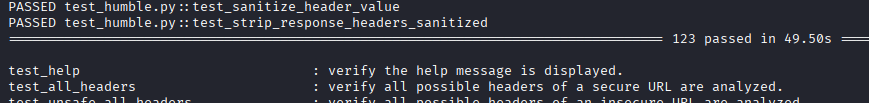
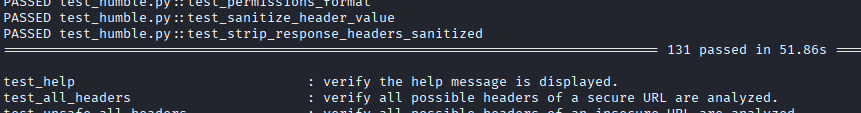
Feature: 4 new features. Check extended commit message.
.- Custom User-Agent through '-H' option
.- Analyze the final response of a file with redirects through '-if' option
.- '-if' options analyses the HAR entry of the URL given with '-u' option
.- Note added when the response contains a WAF or bot-challenge page

diff --git a/humble.py b/humble.py
@@ -76,7 +76,7 @@ Reference/Status/", "https://raw.githubusercontent.com/rfc-st/humble/master/\
 humble.py", "https://github.com/rfc-st/humble")
 DATE_FORMAT = "%Y/%m/%d - %H:%M:%S"
 current_time = datetime.now().astimezone().strftime(DATE_FORMAT)
-local_version = date.fromisoformat("2026-10-05")
+local_version = date.fromisoformat("2026-10-06")
 BANNER_VERSION = f"{URL_LIST[4]} | v.{local_version}"
 
 # Files, path resolution and system directories
@@ -105,6 +105,10 @@ HISTORY_FILE = Path(HUMBLE_FILES[0])
 
 # HTTP status codes, network analysis and timeouts
 CDN_HTTP_CODES = {*range(500, 512), *range(520, 528), 530}
+# https://developers.cloudflare.com/cloudflare-challenges/challenge-types/challenge-pages/detect-response/
+# https://docs.aws.amazon.com/waf/latest/developerguide/waf-captcha-and-challenge-actions.html
+# https://community.vercel.com/t/production-api-and-vercel-dev-blocked-by-x-vercel-mitigated-challenge-403-false-cors/41873
+CHALLENGE_HEADERS = {"cf-mitigated", "x-amzn-waf-action", "x-vercel-mitigated"}
 ERROR_CODES_CLIENT = {*range(400, 408), *range(409, 418), *range(421, 427),
                       428, 429, 431, 451}
 ERROR_CODES_MIXED = (400, 451, 500, 511, 599)
@@ -1750,8 +1754,8 @@ def print_basic_info(export_filename):
 def print_extended_info(reliable):
     """Print extended analysis details.
 
-    Request (`-H` option) and skipped (`-s` option) headers, proxy usage
-    (`-p` option) and specific HTTP 4xx errors.
+    Include the request and skipped headers, proxy usage, specific HTTP 4xx
+    errors and challenge pages of a WAF or bot protection.
     """
     if added_request_headers:
         print_request_headers(added_request_headers)
@@ -1761,6 +1765,8 @@ def print_extended_info(reliable):
         print_detail_l("[proxy_analysis_note]")
         print(f" {args.proxy}")
     print_extra_info(reliable)
+    if CHALLENGE_HEADERS & headers_l.keys():
+        print(get_detail("[analysis_challenge_note]", replace=True))
 
 
 def print_extra_info(reliable):
@@ -3299,6 +3305,7 @@ def initialize_pdf(pdf, ypos):
         ypos=ypos,
     )
 
+
 def generate_pdf(tmp_filename, content, ctx, *, export_all=False):
     """Generate the required file structure, including metadata.
 
@@ -4102,12 +4109,19 @@ def parse_har_file(file_path):
 def extract_har_content(har_data):
     """Extract response headers and status code from a HAR file.
 
+    The entry analyzed is the one requested with the `-u` option or, if none
+    matches, the first one.
+
     A HAR file may be valid JSON yet not follow the expected structure, so
     any unexpected type yields empty headers, reported by the caller via
     `[args_harlines]`.
     """
     try:
-        response = har_data["log"]["entries"][0]["response"]
+        entries = har_data["log"]["entries"]
+        response = next(
+            (entry for entry in entries if entry.get("request", {}).get(
+                "url", "").rstrip("/") == URL.rstrip("/")),
+            entries[0])["response"]
         status_code = int(response.get("status", 0))
         input_headers = {
             sanitize_header_value(header["name"].title()):
@@ -4153,14 +4167,19 @@ def analyze_input_file(input_file):
 
 
 def parse_input_file(input_headers, input_source, status_code):
-    """Parse the headers and values.
+    """Parse the headers and values of the last response in the file.
+
+    A file can hold several responses, one per redirect (e.g. curl with
+    `--location`); as in a live analysis, the last one is analyzed.
 
     Related to `-if` option.
     """
-    parts = input_source.readline().split()
+    content = input_source.read()
+    status_line, *lines = content[content.rfind("\nHTTP/") + 1:].split("\n")
+    parts = status_line.split()
     if len(parts) > 1 and parts[1].isdecimal():
         status_code = int(parts[1][:3])
-    for line in input_source:
+    for line in lines:
         if ":" in line:
             input_header, input_value = line.strip().split(":", 1)
             input_headers[sanitize_header_value(input_header.title())] = (
@@ -4381,6 +4400,8 @@ def parse_request_headers(request_headers):
         quoted = ", ".join(f'"{h}"' for h in malformed_headers)
         print(f"{get_detail('[e_custom_headers]', replace=True)}: {quoted}")
         sys.exit(1)
+    if args.user_agent and "user-agent" in map(str.lower, headers):
+        print_error_detail("[args_useragent_header]", clean_lines=True)
     return headers
 
 
@@ -4720,11 +4741,10 @@ if args.input_file is None:
     if args.proxy:
         process_proxy_url(args.proxy)
         proxy = {"http": args.proxy, "https": args.proxy}
-    custom_headers = REQ_HEADERS.copy()
+    custom_headers = REQ_HEADERS | {"User-Agent": ua_header}
     if args.request_header:
         added_request_headers = parse_request_headers(args.request_header)
         custom_headers.update(added_request_headers)
-    custom_headers["User-Agent"] = ua_header
     (headers, status_code, reliable, body, is_html, final_url,
      redirect_count) = (
         process_http_request(status_code, reliable, body, proxy,

diff --git a/tests/test_humble.py b/tests/test_humble.py
@@ -79,6 +79,8 @@ HUMBLE_TEST_FILES = {
     "GRADE_B": "headers_test_grade_b.txt",
     "GRADE_C": "headers_test_grade_c.txt",
     "GRADE_D": "headers_test_grade_d.txt",
+    "HAR_ENTRIES": "headers_test_entries.har",
+    "CHALLENGE": "headers_test_challenge.txt",
     "CLIENT_ERROR": "client_error_test.txt",
     "CSP_BASE64_NONCE": "headers_test_csp_base64_nonce.txt",
     "CSP_HEX_NONCE": "headers_test_csp_hex_nonce.txt",
@@ -90,6 +92,7 @@ HUMBLE_TEST_FILES = {
     "NO_SEC_HEADERS": "headers_test_nonesecurity.txt",
     "NONEXISTENT": "headers_test_nonexistent.txt",
     "PERFECT_OWASP": "headers_test_perfect_owasp.txt",
+    "REDIRECTS": "headers_test_redirects.txt",
     "UNICODE": "headers_test_unicode.txt",
 }
 CSP_FALLBACK_MISSING = ("child-src", "connect-src", "img-src", "object-src",
@@ -139,6 +142,8 @@ class _LocalStatusHandler(BaseHTTPRequestHandler):
         status_code = int(self.path.rsplit("/", 1)[-1])
         self.send_response(status_code)
         self.send_header("Content-Type", "text/html")
+        self.send_header("X-Request-User-Agent",
+                         self.headers.get("User-Agent", ""))
         self.end_headers()
 
     def do_HEAD(self):
@@ -206,6 +211,8 @@ TEST_CFGS = {
                              "does not meet"),
     "test_cicd_grade_e": (["-u", TEST_URLS[4], "-if",
                            PATHS["NO_SEC_HEADERS"], "-cicd", "E"], "meets"),
+    "test_challenge_response": (["-u", TEST_URLS[2], "-if",
+                                 PATHS["CHALLENGE"]], "challenge page"),
     "test_client_error_response": (["-u", TEST_URLS[1], "-if",
                                     PATHS["CLIENT_ERROR"]], "HTTP code"),
     "test_client_unsupported_error": (["-u", f"{LOCAL_SERVER_URL}/status/432"],
@@ -281,6 +288,8 @@ TEST_CFGS = {
     "test_global_statistics": (["-a"], "Empty headers"),
     "test_har_file": (["-u", TEST_URLS[2], "-if", HUMBLE_HAR_FILE],
                         "Input:"),
+    "test_har_entry": (["-u", TEST_URLS[2], "-if", PATHS["HAR_ENTRIES"]],
+                       "Code  : 200"),
     "test_har_empty_file": (["-u", TEST_URLS[2], "-if", HUMBLE_HAR_EMPTY_FILE],
                         "Error:"),
     "test_har_malformed_file": (["-u", TEST_URLS[2], "-if",
@@ -288,6 +297,8 @@ TEST_CFGS = {
     "test_http_exception": (["-u", TEST_URLS[11]], "scheme"),
     "test_input_file": (["-u", TEST_URLS[2], "-if", HUMBLE_INPUT_FILE],
                         "Input:"),
+    "test_input_file_redirects": (["-u", TEST_URLS[2], "-if",
+                                   PATHS["REDIRECTS"]], "Code  : 200"),
     "test_input_file_nonexistent": (["-u", TEST_URLS[2], "-if",
                                      PATHS["NONEXISTENT"]], "found"),
     "test_input_traversal": (["-u", TEST_URLS[9], "-op",
@@ -323,6 +334,15 @@ TEST_CFGS = {
         ["-u", TEST_URLS[9], "-H", "Cache-Control: no-cache", "-H",
          "If-Modified-Since: Wed, 21 Oct 2020 00:00:00 GMT"],
         "Analysis Grade:",
+    ),
+    "test_request_useragent": (
+        ["-u", f"{LOCAL_SERVER_URL}/status/200", "-H",
+         "User-Agent: humble-test", "-r"],
+        "X-Request-User-Agent: humble-test",
+    ),
+    "test_request_useragent_error": (
+        ["-u", TEST_URLS[9], "-ua", "2", "-H", "User-Agent: humble-test"],
+        "not both",
     ),
     "test_request_invalid_header": (
         ["-u", TEST_URLS[9], "-H", ""], "least"),
@@ -1006,7 +1026,7 @@ def cleanup_analysis_history():
         fsync(original_file.fileno())
 
 
-local_version = date.fromisoformat("2026-10-05")
+local_version = date.fromisoformat("2026-10-06")
 parser = ArgumentParser(
     formatter_class=lambda prog: RawDescriptionHelpFormatter(
         prog, max_help_position=34,

diff --git a/README.md b/README.md
@@ -6,7 +6,7 @@
 <a target="_blank" href="https://devguide.python.org/versions/" title="Minimum Python version required to run this tool"><img src="https://img.shields.io/badge/Python-%3E%3D3.11-blue?labelColor=343b41"></a>
 <a target="_blank" href="LICENSE" title="License of this tool"><img src="https://img.shields.io/badge/License-MIT-blue.svg?labelColor=343b41"></a>
 <a target="_blank" href="https://github.com/rfc-st/humble/releases" title="Latest release of this tool"><img src="https://img.shields.io/github/v/release/rfc-st/humble?display_name=release&label=Latest%20Release&labelColor=343b41"></a>
-<a target="_blank" href="https://github.com/rfc-st/humble/commits/master" title="Latest commit of this tool"><img src="https://img.shields.io/badge/Latest_Commit-2026--10--05-blue.svg?labelColor=343b41"></a>
+<a target="_blank" href="https://github.com/rfc-st/humble/commits/master" title="Latest commit of this tool"><img src="https://img.shields.io/badge/Latest_Commit-2026--10--06-blue.svg?labelColor=343b41"></a>
 <a target="_blank" href="https://pkg.kali.org/pkg/humble" title="Official tool in Kali Linux"><img src="https://img.shields.io/badge/Kali%20Linux-Tool-blue?labelColor=343b41"></a>
 <br />
 <a target="_blank" href="#" title="Featured on:"><img src="https://img.shields.io/badge/Featured%20on:-343b41"></a>
@@ -92,7 +92,7 @@
 :heavy_check_mark: Can display guidelines for enabling security HTTP response headers on popular frameworks, servers, and services.<br />
 :heavy_check_mark: Can exclude HTTP response headers across all analyses via [humble.skip](#global-humbleskip) file.<br />
 :heavy_check_mark: [AI](#AI)-driven security triage and remediation guidance.<br />
-:heavy_check_mark: Includes over 120 [unit tests](#unit-tests) to help verify it works correctly in your environment; requires <a href="https://pypi.org/project/pytest/" target="_blank">pytest</a> and <a href="https://pypi.org/project/pytest-cov/">pytest-cov</a>.<br />
+:heavy_check_mark: Includes over 130 [unit tests](#unit-tests) to help verify it works correctly in your environment; requires <a href="https://pypi.org/project/pytest/" target="_blank">pytest</a> and <a href="https://pypi.org/project/pytest-cov/">pytest-cov</a>.<br />
 :heavy_check_mark: Classes and functions documented at <a href="https://humble.readthedocs.io/en/latest/" target="_blank">Read the Docs</a>.<br />
 :heavy_check_mark: Code regularly audited with several quality, style and security [tools](#quality-style-and-security-tools).<br />
 :heavy_check_mark: Tested, one by one, on thousands of URLs.<br />

diff --git a/docs/index.md b/docs/index.md
@@ -46,7 +46,7 @@ Rafa *'Bluesman'* Faura Cucalón; you can read about me on <a href="https://www.
 - Can display fingerprint statistics for a specific term or the Top 20.
 - Can display guidelines for enabling security HTTP response headers on popular frameworks, servers, and services.
 - <a href="https://github.com/rfc-st/humble/#AI" target="_blank">AI</a>-driven security triage and remediation guidance.
-- Provides dozens of <a href="https://github.com/rfc-st/humble/#unit-tests" target="_blank">unit tests</a> to verify compatibility with your environment; requires <a href="https://pypi.org/project/pytest/"  target="_blank">pytest</a> and <a href="https://pypi.org/project/pytest-cov/" target="_blank">pytest-cov</a>.
+- Provides over 130 <a href="https://github.com/rfc-st/humble/#unit-tests" target="_blank">unit tests</a> to help verify it works correctly in your environment; requires <a href="https://pypi.org/project/pytest/" target="_blank">pytest</a> and <a href="https://pypi.org/project/pytest-cov/">pytest-cov</a>.
 - Code regularly audited with several quality, style and security <a href="https://github.com/rfc-st/humble/?tab=readme-ov-file#quality-style-and-security-tools" target="_blank">tools</a>.<br />
 - Tested, one by one, on thousands of URLs.
 - Tested on Docker 26.1, Kali Linux 2021.1, macOS 14.2.1 and Windows 10 20H2.
@@ -82,6 +82,6 @@ And a special greeting to Alba, Aleix, Alejandro (x3), Álvaro, Ana, Carlos (x3)
 <aside class="md-source-file">
 <span class="md-source-file__fact">
 Last updated on
-<span class="git-revision-date-localized-plugin git-revision-date-localized-plugin-datetime"><em>October 05, 2026</em></span>
+<span class="git-revision-date-localized-plugin git-revision-date-localized-plugin-datetime"><em>October 06, 2026</em></span>
 </span>
 </aside>

diff --git a/docs/unit_tests.md b/docs/unit_tests.md
@@ -30,6 +30,6 @@ Unit test descriptions are retrieved via `print_results` and `get_detail` functi
 <aside class="md-source-file">
 <span class="md-source-file__fact">
 Last updated on
-<span class="git-revision-date-localized-plugin git-revision-date-localized-plugin-datetime"><em>October 05, 2026</em></span>
+<span class="git-revision-date-localized-plugin git-revision-date-localized-plugin-datetime"><em>October 06, 2026</em></span>
 </span>
 </aside>

diff --git a/docs/references.md b/docs/references.md
@@ -5,6 +5,6 @@
 <aside class="md-source-file">
 <span class="md-source-file__fact">
 Last updated on
-<span class="git-revision-date-localized-plugin git-revision-date-localized-plugin-datetime"><em>October 05, 2026</em></span>
+<span class="git-revision-date-localized-plugin git-revision-date-localized-plugin-datetime"><em>October 06, 2026</em></span>
 </span>
 </aside>
